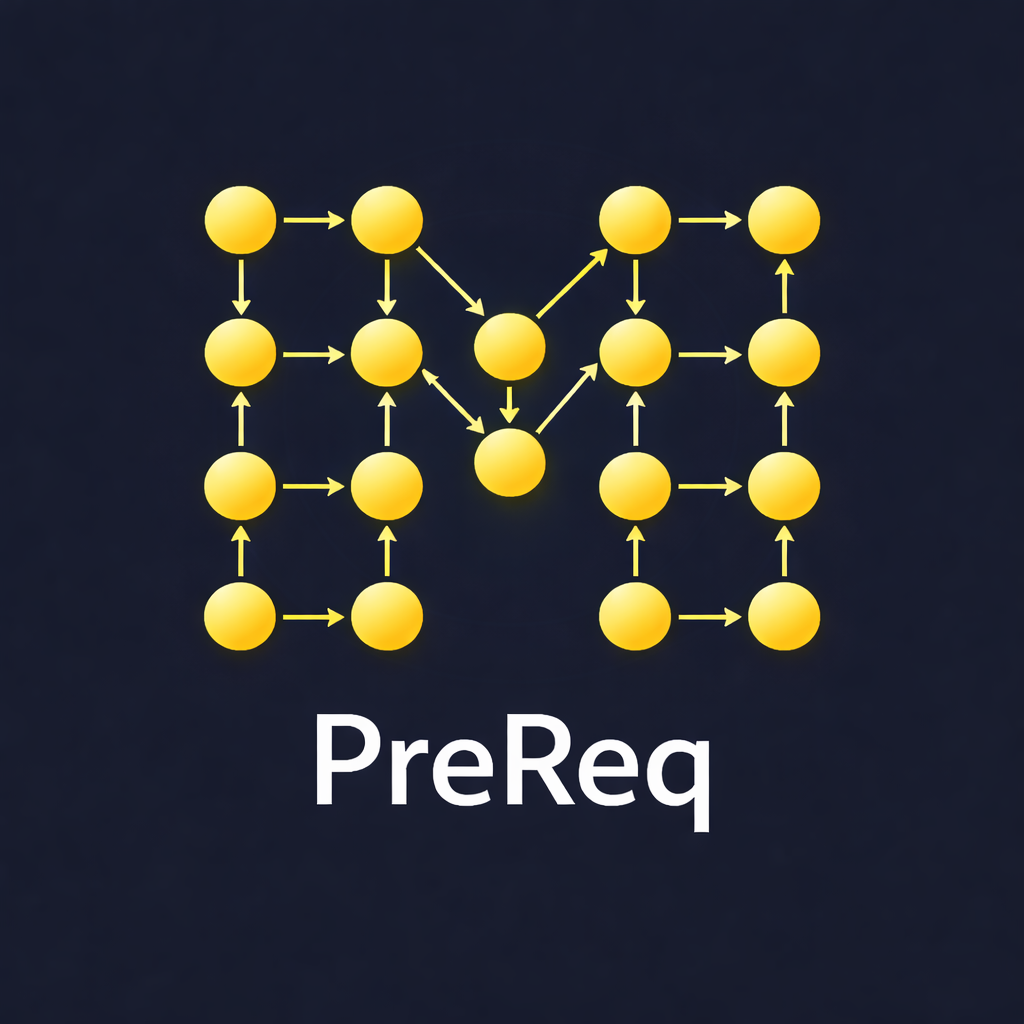
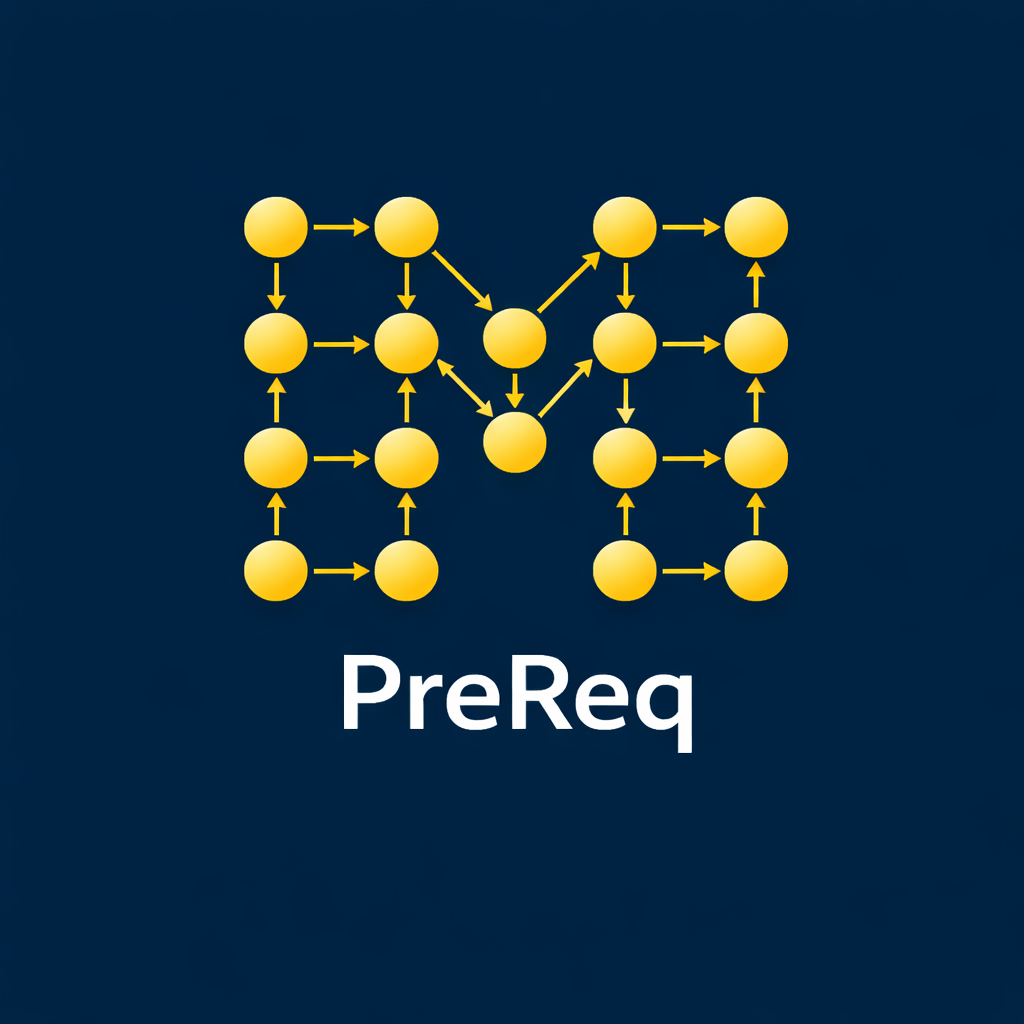
frontend changes

diff --git a/frontend/app/pages/LandingPage.tsx b/frontend/app/pages/LandingPage.tsx
@@ -145,7 +145,7 @@ export const LandingPage: React.FC<LandingPageProps> = ({ onLogin }) => {
                 </h1>
                 
                 <p className="text-xl text-foreground-secondary leading-relaxed max-w-2xl mx-auto">
-                  ConceptLens analyzes student assessment data to reveal conceptual weaknesses, 
+                  PreReq analyzes student assessment data to reveal conceptual weaknesses, 
                   prerequisite gaps, and personalized intervention strategies—backed by dependency-aware AI.
                 </p>
               </motion.div>
@@ -188,16 +188,16 @@ export const LandingPage: React.FC<LandingPageProps> = ({ onLogin }) => {
                 className="flex flex-wrap gap-8 justify-center pt-8 text-sm text-foreground-secondary"
               >
                 <div className="flex items-center gap-2">
-                  <div className="flex items-center gap-1 text-[#FFCB05]">
-                    <span className="w-1.5 h-1.5 rounded-full bg-current"></span>
-                    <span className="w-1.5 h-1.5 rounded-full bg-current"></span>
-                  </div>
+                  <Network className="w-4 h-4 text-[#FFCB05]" />
+                  Dependency-aware concept mapping
+                </div>
+                <div className="flex items-center gap-2">
                   <Shield className="w-4 h-4 text-[#FFCB05]" />
                   Institutional-grade security
-                  <div className="flex items-center gap-1 text-[#FFCB05]">
-                    <span className="w-1.5 h-1.5 rounded-full bg-current"></span>
-                    <span className="w-1.5 h-1.5 rounded-full bg-current"></span>
-                  </div>
+                </div>
+                <div className="flex items-center gap-2">
+                  <TrendingDown className="w-4 h-4 text-[#FFCB05]" />
+                  Root-cause intervention insights
                 </div>
               </motion.div>
             </div>
@@ -354,7 +354,7 @@ export const LandingPage: React.FC<LandingPageProps> = ({ onLogin }) => {
           <div className="max-w-6xl mx-auto">
             <div className="flex flex-col md:flex-row justify-between items-center gap-6">
               <p className="text-sm text-foreground-secondary">
-                ConceptLens © 2026 — AI-Powered Assessment Intelligence for Higher Education
+                PreReq © 2026 — AI-Powered Assessment Intelligence for Higher Education
               </p>
               <div className="flex gap-6 text-sm text-foreground-secondary">
                 <a href="#" className="hover:text-[#FFCB05] transition-colors">Privacy Policy</a>

diff --git a/frontend/app/components/D3Heatmap.tsx b/frontend/app/components/D3Heatmap.tsx
@@ -46,10 +46,10 @@ export const D3Heatmap: React.FC<D3HeatmapProps> = ({
 
     // Tooltip
     const tooltip = d3
-      .select(container)
+      .select('body')
       .append('div')
       .attr('class', 'heatmap-tooltip')
-      .style('position', 'absolute')
+      .style('position', 'fixed')
       .style('pointer-events', 'none')
       .style('background', '#00274C')
       .style('color', '#fff')
@@ -58,8 +58,30 @@ export const D3Heatmap: React.FC<D3HeatmapProps> = ({
       .style('font-size', '12px')
       .style('font-family', 'system-ui, -apple-system, sans-serif')
       .style('opacity', 0)
-      .style('z-index', '20')
+      .style('z-index', '60')
       .style('white-space', 'nowrap');
+
+    const positionTooltip = (event: MouseEvent) => {
+      const tooltipNode = tooltip.node();
+      if (!tooltipNode) return;
+      const tooltipRect = tooltipNode.getBoundingClientRect();
+      const offset = 14;
+      const viewportPadding = 8;
+
+      let left = event.clientX + offset;
+      let top = event.clientY + offset;
+
+      if (left + tooltipRect.width > window.innerWidth - viewportPadding) {
+        left = event.clientX - tooltipRect.width - offset;
+      }
+      if (top + tooltipRect.height > window.innerHeight - viewportPadding) {
+        top = event.clientY - tooltipRect.height - offset;
+      }
+
+      tooltip
+        .style('left', `${Math.max(viewportPadding, left)}px`)
+        .style('top', `${Math.max(viewportPadding, top)}px`);
+    };
 
     // Column headers (student labels)
     svg
@@ -141,16 +163,13 @@ export const D3Heatmap: React.FC<D3HeatmapProps> = ({
               `${d.student.name}<br/>` +
               `Readiness: ${Math.round(d.value * 100)}%`
           )
-          .style('left', `${event.offsetX + 14}px`)
-          .style('top', `${event.offsetY - 14}px`)
           .transition()
           .duration(100)
           .style('opacity', 1);
+        positionTooltip(event as MouseEvent);
       })
       .on('mousemove', function (event) {
-        tooltip
-          .style('left', `${event.offsetX + 14}px`)
-          .style('top', `${event.offsetY - 14}px`);
+        positionTooltip(event as MouseEvent);
       })
       .on('mouseleave', function () {
         d3.select(this)

diff --git a/frontend/app/pages/InstructorDashboard.tsx b/frontend/app/pages/InstructorDashboard.tsx
@@ -208,9 +208,9 @@ export const InstructorDashboard: React.FC<InstructorDashboardProps> = ({ onConc
               </button>
             </div>
             <div className="grid grid-cols-4 gap-6">
-              <ConceptLensSlider label="Direct Weight (α)" value={parameters.alpha} min={0} max={1} step={0.05} onChange={(v) => setParameters({ ...parameters, alpha: v })} description="Direct mastery weight" />
-              <ConceptLensSlider label="Prerequisite Weight (β)" value={parameters.beta} min={0} max={1} step={0.05} onChange={(v) => setParameters({ ...parameters, beta: v })} description="Prerequisite penalty factor" />
-              <ConceptLensSlider label="Downstream Weight (γ)" value={parameters.gamma} min={0} max={1} step={0.05} onChange={(v) => setParameters({ ...parameters, gamma: v })} description="Future concept boost" />
+              <ConceptLensSlider label="Direct Readiness Weight (α)" value={parameters.alpha} min={0} max={1} step={0.05} onChange={(v) => setParameters({ ...parameters, alpha: v })} description="Multiplies direct readiness in final score" />
+              <ConceptLensSlider label="Prerequisite Penalty Weight (β)" value={parameters.beta} min={0} max={1} step={0.05} onChange={(v) => setParameters({ ...parameters, beta: v })} description="Multiplies prerequisite penalty (subtracted)" />
+              <ConceptLensSlider label="Downstream Boost Weight (γ)" value={parameters.gamma} min={0} max={1} step={0.05} onChange={(v) => setParameters({ ...parameters, gamma: v })} description="Multiplies downstream boost in final score" />
               <ConceptLensSlider label="Readiness Threshold" value={parameters.threshold} min={0} max={1} step={0.05} onChange={(v) => setParameters({ ...parameters, threshold: v })} description="Mastery cutoff score" />
             </div>
           </motion.div>

diff --git a/frontend/app/components/ConceptLensLogoUMich.tsx b/frontend/app/components/ConceptLensLogoUMich.tsx
@@ -10,46 +10,12 @@ export const ConceptLensLogoUMich: React.FC<ConceptLensLogoUMichProps> = ({
   size = 40 
 }) => {
   return (
-    <svg 
-      width={size} 
-      height={size} 
-      viewBox="0 0 100 100" 
-      fill="none" 
-      xmlns="http://www.w3.org/2000/svg"
-      className={className}
-    >
-      {/* Outer circle - represents holistic view */}
-      <circle 
-        cx="50" 
-        cy="50" 
-        r="45" 
-        stroke="#FFCB05" 
-        strokeWidth="2.5" 
-        fill="none"
-      />
-      
-      {/* Inner concept nodes - dependency graph */}
-      <circle cx="50" cy="25" r="6" fill="#00274C" />
-      <circle cx="30" cy="45" r="6" fill="#00274C" />
-      <circle cx="70" cy="45" r="6" fill="#00274C" />
-      <circle cx="50" cy="65" r="6" fill="#FFCB05" />
-      
-      {/* Connection lines - showing dependencies */}
-      <line x1="50" y1="31" x2="34" y2="42" stroke="#00274C" strokeWidth="2" opacity="0.4" />
-      <line x1="50" y1="31" x2="66" y2="42" stroke="#00274C" strokeWidth="2" opacity="0.4" />
-      <line x1="30" y1="51" x2="50" y2="59" stroke="#FFCB05" strokeWidth="2.5" opacity="0.6" />
-      <line x1="70" y1="51" x2="50" y2="59" stroke="#FFCB05" strokeWidth="2.5" opacity="0.6" />
-      
-      {/* Lens focal point - magnifying glass suggestion */}
-      <circle 
-        cx="50" 
-        cy="65" 
-        r="12" 
-        stroke="#FFCB05" 
-        strokeWidth="1.5" 
-        fill="none"
-        opacity="0.3"
-      />
-    </svg>
+    <img
+      src="/icon.png"
+      alt="PreReq logo"
+      width={size}
+      height={size}
+      className={`object-contain ${className}`}
+    />
   );
 };

diff --git a/frontend/app/components/Chatbot.tsx b/frontend/app/components/Chatbot.tsx
@@ -10,7 +10,7 @@ interface ChatbotProps {
 export const Chatbot: React.FC<ChatbotProps> = ({ examId }) => {
   const [isOpen, setIsOpen] = useState(false);
   const [messages, setMessages] = useState<Array<{ text: string; isBot: boolean }>>([
-    { text: "Hi! I'm your ConceptLens assistant. Ask me anything about your exam data.", isBot: true },
+    { text: "Hi! I'm your PreReq assistant. Ask me anything about your exam data.", isBot: true },
   ]);
   const [input, setInput] = useState('');
   const [sessionId, setSessionId] = useState<string | null>(null);
@@ -81,7 +81,7 @@ export const Chatbot: React.FC<ChatbotProps> = ({ examId }) => {
               <div className="flex items-center gap-3">
                 <div className="w-3 h-3 rounded-full bg-[#FFCB05] animate-pulse" />
                 <div>
-                  <h3 className="font-medium">ConceptLens Assistant</h3>
+                  <h3 className="font-medium">PreReq Assistant</h3>
                   <p className="text-xs opacity-75">{sending ? 'Thinking...' : 'Online'}</p>
                 </div>
               </div>

diff --git a/frontend/app/components/Sidebar.tsx b/frontend/app/components/Sidebar.tsx
@@ -21,8 +21,8 @@ export const Sidebar: React.FC<SidebarProps> = ({ currentView, onNavigate }) => 
   return (
     <div className="fixed left-0 top-0 h-screen w-20 bg-[#00274C] border-r border-[#003366] flex flex-col items-center py-6 z-40">
       {/* Logo */}
-      <div className="mb-8">
-        <ConceptLensLogoUMich size={48} />
+      <div className="mb-8 -mt-2">
+        <ConceptLensLogoUMich size={72} />
       </div>
 
       {/* Navigation */}

diff --git a/frontend/styles/theme.css b/frontend/styles/theme.css
@@ -2,7 +2,7 @@
 
 :root {
   --font-size: 16px;
-  /* ConceptLens UMich Color System */
+  /* PreReq UMich Color System */
   --umich-blue: #00274C;
   --umich-maize: #FFCB05;
   
@@ -58,7 +58,7 @@
 }
 
 .dark {
-  /* ConceptLens UMich Color System - same for both modes */
+  /* PreReq UMich Color System - same for both modes */
   --background: #FFFFFF;
   --surface: #F8F9FA;
   --elevated: #FFFFFF;

diff --git a/frontend/index.html b/frontend/index.html
@@ -4,7 +4,7 @@
     <meta charset="UTF-8" />
     <meta name="viewport" content="width=device-width, initial-scale=1.0" />
     <link rel="icon" type="image/png" href="/icon.png" />
-    <title>ConceptLens</title>
+    <title>PreReq</title>
   </head>
   <body>
     <div id="root"></div>

diff --git a/frontend/styles/fonts.css b/frontend/styles/fonts.css
@@ -1,4 +1,4 @@
-/* Inter font for ConceptLens */
+/* Inter font for PreReq */
 @import url('https://fonts.googleapis.com/css2?family=Inter:wght@300;400;500;600;700&display=swap');
 
 body {

diff --git a/frontend/styles/tailwind.css b/frontend/styles/tailwind.css
@@ -3,7 +3,7 @@
 
 @import 'tw-animate-css';
 
-/* Custom styles for ConceptLens */
+/* Custom styles for PreReq */
 @layer base {
   /* Smooth scrolling */
   * {
